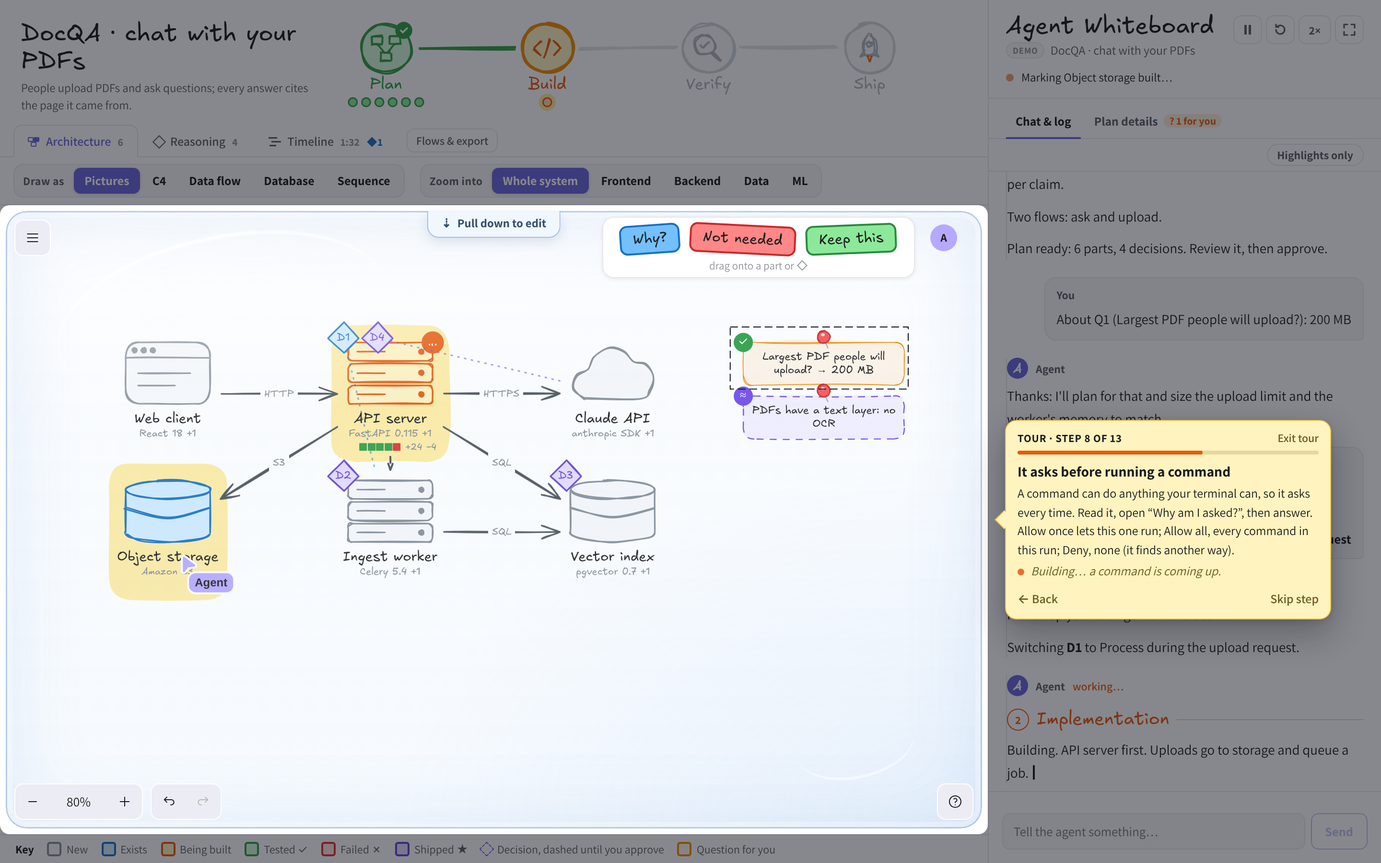
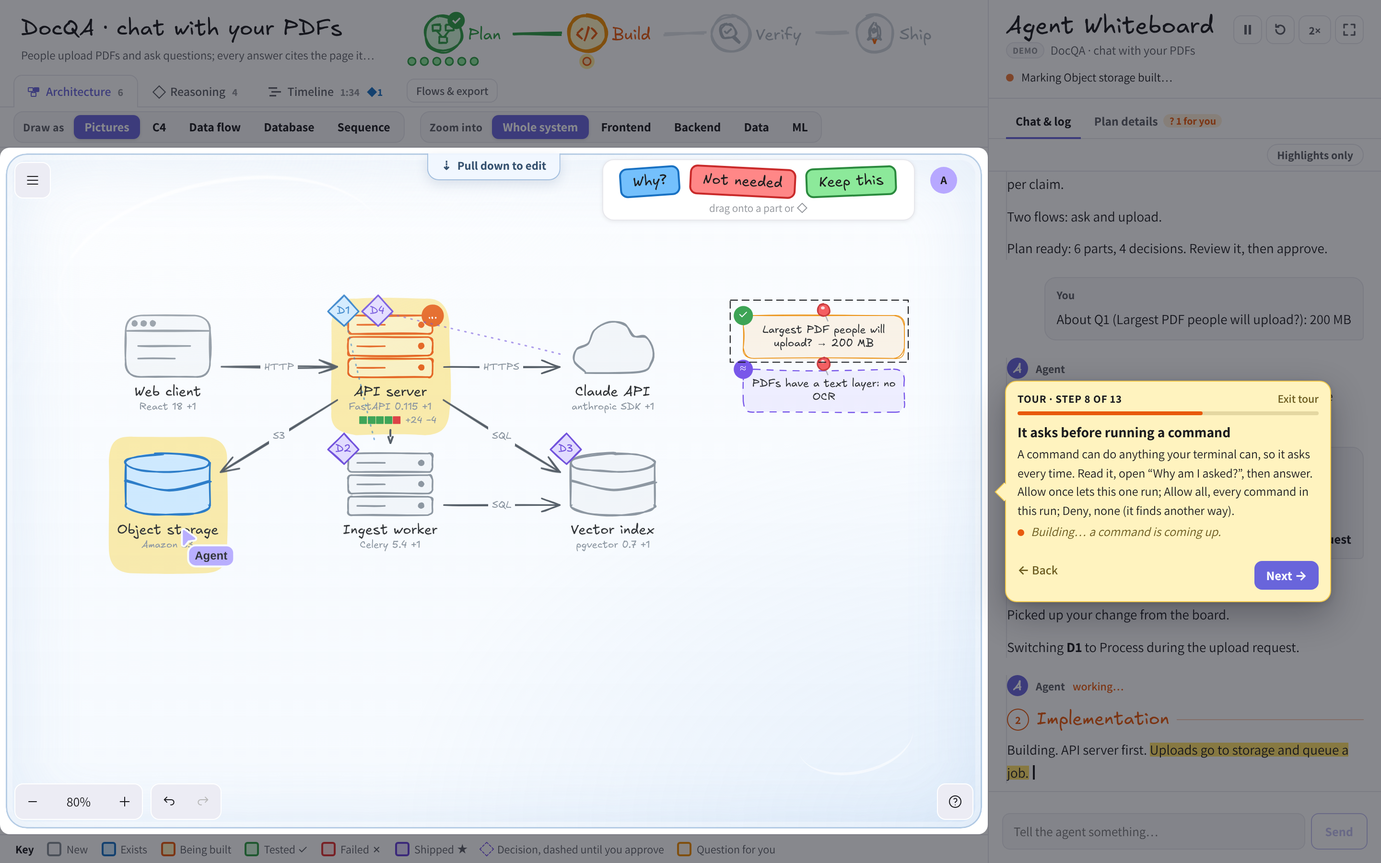
An intro pop-up over the demo, and Next on every tour step
A first visit, with an API key or without, starts the demo straight away
and pops up an intro in the middle of the screen over it (like the user's
Equalizer app): Show me around, or Skip the tour (Start my own task with a
key). The small "New here? Take the tour" card in the panel's corner is
gone, and the intro outlines nothing (the numbered rings round the panel,
board and road read out of order once the panel moved right).

Every step now has Next, which does the step for you if you haven't (it
was "Skip step"), and waits while the demo is still getting there. The
demo plays at 1× under the intro and 2× from the plan step.

Docs and screenshots updated; tour-check passes, light and dark.

Claude-Session: https://claude.ai/code/session_01CnzFEP1V3N7s4aLoNxWexn

diff --git a/src/App.jsx b/src/App.jsx
@@ -1340,8 +1340,9 @@ export default function App() {
       // Excalidraw measures its container after mount, so fit once it has real dimensions.
       timers.push(setTimeout(() => board.fit(), 150));
       // With an API key, wait for a task; otherwise play the scripted demo, as the tour on a first visit.
-      if (status.live) document.getElementById("ask")?.focus();
-      else if (tourOffer) setAutoTour(true);
+      // A first visit, key or not: the demo starts and the intro pops up over it (the tour).
+      if (tourOffer) setAutoTour(true);
+      else if (status.live) document.getElementById("ask")?.focus();
       else timers.push(setTimeout(() => s.startDemo({ fresh: true }), 700));
     });
     return () => {
@@ -1866,7 +1867,7 @@ export default function App() {
     setSpeed(v);
     if (s) s.player.speed = v;
   };
-  // Start from an empty board: the first step shows the three areas, the second starts the demo.
+  // Start from an empty board: the intro starts the demo behind it, the next step speeds it up.
   const takeTour = async () => {
     if (!s) return;
     markTour("taken");
@@ -1934,7 +1935,7 @@ export default function App() {
     // Leaving the step a checkpoint waits for (done, skipped, or the tour's over) lets the demo go on.
     if (s.held && !holds(tour, s.held, tourCtx)) s.release();
   });
-  // A step's action, the first time it's reached: the plan step starts the demo at 2×.
+  // A step's action, the first time it's reached: the intro starts the demo, the plan step plays it at 2×.
   const prevTour = useRef(null);
   useEffect(() => {
     const prev = prevTour.current;
@@ -1942,8 +1943,9 @@ export default function App() {
     if (!isFresh(prev, tour)) return;
     if (stepOf(tour).enter === "demo") {
       runDemo();
-      setSpeedTo(2);
+      setSpeedTo(1);
     }
+    if (stepOf(tour).enter === "fast") setSpeedTo(2);
     if (stepOf(tour).clearSelection) s?.board.api.updateScene({ appState: { selectedElementIds: {} } });
   }, [tour]);
   // Where the tour's first circle on the board is, on screen, and the rest of the drawing round
@@ -2023,6 +2025,8 @@ export default function App() {
             total={tourLength}
             wait={tourWaiting(tourStep, tourCtx)}
             manual={tour.manual}
+            live={!!agent?.live}
+            onOwnTask={() => leaveTour("task")}
             onBack={() => setTour(tourBack(tour, tourCtx))}
             onNext={() => setTour(tourNext(tour, tourCtx))}
             onSkip={skipTour}
@@ -2093,24 +2097,7 @@ export default function App() {
               <span className="caption">{status}</span>
             </div>
           )}
-          {/* Not before the dev server says whether there's a key: without one the tour starts by itself. */}
-          {tour || !agent || autoTour ? null : tourOffer && s ? (
-            <div className="coach tour-offer" role="region" aria-label="Take the tour">
-              <div className="coach-top">
-                <span className="coach-label">New here?</span>
-              </div>
-              <b className="coach-title">Take the tour: a whole run in a few minutes</b>
-              <p>The demo plays as a lesson. It stops at each step until you've tried it: pick an option, answer a question, allow a command, check its work. No API key needed.</p>
-              <div className="tour-actions">
-                <button className="linkish" onClick={() => markTour("declined")}>
-                  No thanks
-                </button>
-                <button className="primary" onClick={takeTour}>
-                  Take the tour
-                </button>
-              </div>
-            </div>
-          ) : (
+          {tour || !agent || autoTour ? null : (
             tips && coach && <Coach c={coach} onHide={() => showTipsPref(false)} onTour={takeTour} />
           )}
         </header>

diff --git a/src/Tour.jsx b/src/Tour.jsx
@@ -11,9 +11,31 @@ const marked = (s, proposed) =>
     ? s.split("◇").flatMap((part, i) => (i ? [<span key={i} className={`dmark${proposed ? " proposed" : ""}`} role="img" aria-label="decision">D</span>, part] : [part]))
     : s;
 
-// The step's card: the same yellow note as the coach, with a step count and a way out.
-// A step that waits for the run (it's still planning, say) says so instead of offering Next.
-export function TourCard({ step, proposed, n, total, wait, manual, onBack, onNext, onSkip, onExit, finish }) {
+// The step's card: the same yellow note as the coach, with a step count and a way out. Next is
+// always there: it does the step for you if you haven't (onSkip), so nobody has to work out what
+// to click. A step that waits for the run (it's still planning, say) says so, and Next waits too.
+// The first step is the intro, a pop-up over the demo as it starts: Show me around, or skip it
+// (with an API key, straight to your own task).
+export function TourCard({ step, proposed, n, total, wait, manual, live, onBack, onNext, onSkip, onExit, onOwnTask, finish }) {
+  if (step.intro)
+    return (
+      <div className="coach tour intro" role="dialog" aria-labelledby="tour-intro-title">
+        <span className="intro-brand">Agent Whiteboard</span>
+        <h2 id="tour-intro-title" className="intro-title">
+          {step.title}
+        </h2>
+        <p>{marked(step.text, proposed)}</p>
+        <div className="tour-actions">
+          <button className="linkish" onClick={live ? onOwnTask : onExit}>
+            {live ? "Start my own task" : "Skip the tour"}
+          </button>
+          <button className="primary" onClick={onNext} autoFocus>
+            Show me around →
+          </button>
+        </div>
+      </div>
+    );
+  const acts = !step.next && !manual;
   return (
     <div className="coach tour" role="region" aria-label="Tour">
       <div className="coach-top">
@@ -40,13 +62,9 @@ export function TourCard({ step, proposed, n, total, wait, manual, onBack, onNex
         </button>
         {finish ? (
           <span className="tour-finish">{finish}</span>
-        ) : step.next || manual ? (
-          <button className="primary" onClick={onNext}>
-            Next →
-          </button>
         ) : (
-          <button className="linkish" onClick={onSkip} title="Do it for me and go on">
-            Skip step
+          <button className="primary" onClick={acts ? onSkip : onNext} disabled={!!wait} title={acts ? "Go on (it does the step for you if you haven't)" : undefined}>
+            Next →
           </button>
         )}
       </div>

diff --git a/src/engine/tour.js b/src/engine/tour.js
@@ -35,21 +35,19 @@ export const BOARD = '[data-tour="board"]';
 export const TOUR = [
   {
     id: "welcome",
-    title: "Welcome! This is a run, start to finish",
-    text: "A coding agent gets a task, plans it, builds it and tests it. Here it's a scripted demo: no API key, and it never touches your files. Three areas: (1) this panel, where it talks and you answer; (2) the board, its plan as a drawing; (3) the phase road: Plan → Build → Verify → Ship.",
+    // The intro: a pop-up in the middle of the screen, over the demo as it starts playing.
+    intro: true,
+    title: "Watch a coding agent plan, build and test",
+    text: "It draws its plan on the board as it works, and you steer it from the drawing. This is a demo run: no API key, and nothing on your machine changes.",
     next: true,
-    place: "center", // the three areas are the whole screen: the card sits in the middle, a ring round each
-    dom: () => [
-      { sel: '[data-tour="panel"]', label: "1 Panel" },
-      { sel: '[data-tour="board"]', label: "2 Board" },
-      { sel: '[data-tour="road"]', label: "3 Phase road" },
-    ],
+    enter: "demo",
+    place: "center", // nothing outlined: the next steps point at things one at a time
   },
   {
     id: "plans",
     title: "It plans first",
     text: "Watch the parts appear. Each picture is a part of the system: a browser window is the web client, a rack a server, a cylinder a database. The color says its state: the key under the board has them all. Grey means new: nothing is built yet.",
-    enter: "demo",
+    enter: "fast",
     wait: (c) => (c.gate ? null : "Playing at 2×. The plan stops by itself when it's ready."),
     done: (c) => c.gate || c.stage === "building",
     dom: () => [{ sel: '[data-tour="key"]', label: "What the colors mean" }],

diff --git a/src/styles.css b/src/styles.css
@@ -2820,13 +2820,43 @@ button:focus-visible {
   justify-content: flex-end;
   gap: 6px;
 }
-.app .coach.tour .linkish,
-.app .coach.tour-offer .linkish {
+.app .coach.tour .linkish {
   color: #6b5a1e;
 }
-.app[data-theme="dark"] .coach.tour .linkish,
-.app[data-theme="dark"] .coach.tour-offer .linkish {
+.app[data-theme="dark"] .coach.tour .linkish {
   color: var(--soft);
+}
+/* The intro (and the finish): in the middle of the screen, bigger, over the demo playing behind. */
+.tour-pop.at-center {
+  width: 460px;
+}
+.app .coach.tour.intro {
+  padding: 22px 24px 18px;
+}
+.intro-brand {
+  font-size: 11.5px;
+  font-weight: 800;
+  letter-spacing: 0.12em;
+  text-transform: uppercase;
+  color: #8a6d1c;
+}
+.app[data-theme="dark"] .intro-brand {
+  color: var(--soft);
+}
+.intro-title {
+  margin: 6px 0 8px;
+  font: 400 27px/1.2 var(--hand);
+  color: var(--ink);
+}
+.app .coach.tour.intro p {
+  font-size: 14px;
+}
+.app .coach.tour.intro .tour-actions {
+  margin-top: 16px;
+}
+.app .coach.tour.intro .tour-actions button.primary {
+  padding: 8px 16px;
+  font-size: 14px;
 }
 /* The spotlight: the screen dims round what the step is about (cut out of an SVG mask), with a
    ring round each thing to click, and the card pops out beside it. Only the card takes clicks:

diff --git a/test/tour.test.js b/test/tour.test.js
@@ -27,10 +27,12 @@ test("a whole tour: each step waits for its action, then moves on by itself", ()
   let c = { ...base };
   let t = startTour(c);
   assert.equal(at(t), "welcome");
+  assert.ok(stepOf(t).intro, "the intro pop-up");
+  assert.equal(stepOf(t).enter, "demo", "the demo starts behind it");
   assert.equal(advance(t, c), t, "Next-only steps wait for Next");
   t = next(t, c);
   assert.equal(at(t), "plans");
-  assert.equal(stepOf(t).enter, "demo");
+  assert.equal(stepOf(t).enter, "fast");
 
   c = { ...c, started: true, stage: "planning", phase: "planning", firstDecision: "d1", firstQuestion: "q1" };
   assert.equal(advance(t, c), t, "still planning");
@@ -162,8 +164,8 @@ test("what stays lit, and where the card goes", () => {
     while (at(t) !== id) t = next(t, c);
     return targets(t, c);
   };
-  assert.equal(go("welcome", base).place, "center", "the three areas are the whole screen");
-  assert.equal(go("welcome", base).dom.length, 3);
+  assert.equal(go("welcome", base).place, "center", "the intro: a pop-up in the middle");
+  assert.equal(go("welcome", base).dom.length, 0, "nothing outlined behind it");
   assert.equal(go("finish", base).place, "center", "nothing to point at");
   assert.deepEqual(go("finish", base).spot, []);
 

diff --git a/HANDOFF.md b/HANDOFF.md
@@ -45,7 +45,7 @@ Every run is recorded so it can be replayed, reopened, and read as a decision lo
 - **Models (README):** three settings, `AGENT_URL` (any Anthropic-format endpoint; left out for Anthropic's API), `AGENT_KEY` (left out for a local server) and `AGENT_MODEL`. `agentEnv()` in `server/runs.js` writes them into the variables the Claude Agent SDK reads and is passed as the query's `env`: for a custom URL, `ANTHROPIC_BASE_URL`, `ANTHROPIC_AUTH_TOKEN` (the key, or `none`), an empty `ANTHROPIC_API_KEY` (so the SDK doesn't sign in to Anthropic instead), and the model for every `ANTHROPIC_DEFAULT_*_MODEL` tier. Claude Code's own variables (`ANTHROPIC_*`, `CLAUDE_CODE_USE_BEDROCK`/`VERTEX`/`FOUNDRY`) still work. `provider()` names the route in the top bar. The agent loop is the SDK, so non-Claude models are unofficial. Only Anthropic's API has been run; an Ollama test in a cloud session was blocked (running the downloaded binary wasn't permitted), so Ollama, LiteLLM, OpenRouter and the cloud providers follow their official setup pages, **untested**. **Codex is supported** (`AGENT_ENGINE=codex`, `server/codex-run.js`, below). opencode and pi aren't; the board's MCP server over HTTP (`server/board-mcp.js`) is what they'd connect to, plus a run loop each, like Codex's.
 - **First-time help (4.11):** someone found the UI too hard to follow, so it now walks a first-year CS student through a run without removing anything: a coach card (step 1–4 and what to do now), sticky-note tips with hand-drawn arrows on the board at the first plan gate, an **Edit the plan** toolbar with words (Excalidraw's own toolbar behind **Drawing tools**), a click-to-explain card for whatever's selected, a color key, plain-word tabs/counts/receipts/prompts, and one **View** menu for Diagram, Show only and Export. Designed from three mockups (A step by step, B today's layout plus a coach, C click anything; a private Design canvas the user has): this is B plus C's explain card. Verified on the demo (every step, Rename, Use this and Remove queuing edits, dark theme), the start screen and a permission prompt with the agent status stubbed live and a recording fed through the agent path; not on a live run yet.
 - **Stickers, red pen, tape and pins (4.12):** three stickers (Why?, Not needed, Keep this) in a tray at the top of the board (they used to be in Excalidraw's Library, behind a Stickers button: the user doesn't want things hidden behind buttons); a sticker dropped on a part or a ◇ becomes a `sticker` edit (area ▢ / ◇, Keep this ✐), sent with Submit, answered by the agent, then cleared (Keep this stays as a constraint, listed as `kept` in board_state). At the end of a run the review is marked on the board in red pen: a ring round the part owning a file a false claim names (a margin note when no part owns it), a ✗ over a failed check. Your notes get washi tape, the agent's questions and assumptions a push pin (Pictures only). Verified on the demo in headless Chromium, light and dark (real drags from the Library onto a part and a diamond, Approve with changes, the clear-up after the turn, a real click on a pen mark, C4 without tape or pins); not on a live run yet: check the agent answers `sticker` edits as instructions.js says.
-- **The tour (4.13):** **Take the tour** runs the scripted demo as a 13-step lesson that waits for you at each step (click a ◇, Use this or a sticker, answer the question, approve with changes, hover a log line, a scripted command prompt, the Why tab after D2 fails, the false README.md claim, the Timeline, Draw as and Zoom into, finish). Step logic is pure (`src/engine/tour.js`, unit-tested in `test/tour.test.js`); `scripts/tour-check.cjs` takes the whole tour in headless Chromium with real clicks, light and dark, plus Back / Skip step / Exit and a check that the plain demo is unchanged. Live mode's start screen checked with the agent status stubbed live. Screenshots in `screenshots/tour/`.
+- **The tour (4.13):** **Take the tour** runs the scripted demo as a 13-step lesson, opened by an intro pop-up over the demo as it starts; every step has **Next**, which does the step for you if you haven't (click a ◇, Use this or a sticker, answer the question, approve with changes, hover a log line, a scripted command prompt, the Why tab after D2 fails, the false README.md claim, the Timeline, Draw as and Zoom into, finish). Step logic is pure (`src/engine/tour.js`, unit-tested in `test/tour.test.js`); `scripts/tour-check.cjs` takes the whole tour in headless Chromium with real clicks, light and dark, plus Back / Next / Exit and a check that the plain demo is unchanged. Live mode's start screen checked with the agent status stubbed live. Screenshots in `screenshots/tour/`.
 - **Tutorial:** `docs/TUTORIAL.md`, a walkthrough for a first-year CS student (setup, the tour, a first run, steering, the command prompt, checking the result, saved runs and the decision log, your own task), linked at the top of the README. Its screenshots are `screenshots/tour/`, `screenshots/stickers/` and `screenshots/tutorial/` (the start screen, a reopened run's Timeline). Keep it in step with the UI: when a button's name or a step changes, update the tutorial in the same commit.
 - **Zoom into, Draw as, the glass, a shorter demo (4.14):** the user wanted layers they can open (not just greyed-out boxes), the notation picker visible, the board behind glass until you choose to edit, and less prose in the panel. A bar above the board: **Draw as** (the old Diagram dropdown) and **Zoom into** (Whole system or a layer: the layer's components opened on the board's own map to show their parts, other layers closed as grey boxes; new `part` op). The board sits behind glass; **Pull down to edit** shows Edit the plan, Submit puts it back. The demo's prose is one line per step (same ops). Verified on the demo in headless Chromium (every layer, a drag blocked behind glass and a click still explaining, the drag working with the glass down, the tour's new step); not on a live run yet: check the agent sends `part` ops.
 - **Headers:** the board's tabs are **Architecture**, **Reasoning** (was "Why · the reasons") and **Timeline**, with their counts and no subtitles (the tooltips explain). With no plan yet the header says "No plan yet" and "The agent draws its plan here." (was "Waiting for the agent…"). Code still calls the Reasoning view `why` (`whyApi`, `data-tour="why-tab"`).
@@ -252,12 +252,12 @@ Three board-drawn touches, all following the `showTips` pattern (board ids, reme
 
 The scripted demo as a lesson: it stops at each step until the person has done it. Opt-in; the plain demo and everything else behave as before.
 
-- **Steps** (`TOUR` in `src/engine/tour.js`): welcome (three rings: panel, board, phase road; Next) → plans (starts the demo at 2×; rings the key; done at the gate) → click a ◇ (board note on the lowest decision; done when a `decision:` lid is selected) → steer (rings **Use this** on the explain card and **Stickers**; done when the queued edits grow) → answer (circles the open question, rings Plan details; done when answered; clears the selection so the decision's card doesn't cover the note) → approve (rings Approve; done at `stage === "building"`) → build (note on the orange part, rings Chat & log; done when a Chat & log sentence is hovered; checkpoint `build`) → permission (rings the prompt; done when a prompt is answered) → why (after a decision changes with `cause.who === "test"`, rings the Why tab; done on that view; checkpoint `verify`) → untrue (once the review shows, rings its ✗ row; done when a review row or pen mark is opened) → timeline → views (rings the Architecture tab, then the bar above the board, with the board lit; waits for Next) → finish (Start your own task in live mode, See saved runs, Finish).
+- **Steps** (`TOUR` in `src/engine/tour.js`): welcome (the intro: `intro: true`, a centered pop-up with nothing outlined, starts the demo at 1×; Show me around, or Skip the tour / Start my own task with a key) → plans (2×; rings the key; done at the gate) → click a ◇ (board note on the lowest decision; done when a `decision:` lid is selected) → steer (rings **Use this** on the explain card and **Stickers**; done when the queued edits grow) → answer (circles the open question, rings Plan details; done when answered; clears the selection so the decision's card doesn't cover the note) → approve (rings Approve; done at `stage === "building"`) → build (note on the orange part, rings Chat & log; done when a Chat & log sentence is hovered; checkpoint `build`) → permission (rings the prompt; done when a prompt is answered) → why (after a decision changes with `cause.who === "test"`, rings the Why tab; done on that view; checkpoint `verify`) → untrue (once the review shows, rings its ✗ row; done when a review row or pen mark is opened) → timeline → views (rings the Architecture tab, then the bar above the board, with the board lit; waits for Next) → finish (Start your own task in live mode, See saved runs, Finish).
 - **Pure logic.** App builds a context every render (the fields are listed at the top of tour.js); `advance(tour, ctx)` moves through every step whose `done(ctx, start)` holds (`start` is the context when the step began, so "did something new" is a comparison). Steps also count as done once the run has moved past them (approving before answering skips ahead), so it never waits for what can't happen. **Back** sets `manual`: the step waits for **Next**, or it would skip itself straight away. **Skip step** does the step for you (`skip`: pick the first option, answer with the first option, approve, allow) and moves on. A step's `enter` (start the demo) runs once (`isFresh`, from `max`).
 - **Pausing the demo.** Two script ops that only act while `Session.tour` is set: `<board op="tour" at="build|verify"/>` asks App's `onHold(at)` (→ `holds(tour, at, ctx)`: the current step's `release` is `at` and it isn't done) and if so pauses the player and sets `held`; App releases it (`Session.release()`) as soon as `holds` stops being true (done, skipped, exited). `<board op="ask" cmd="pytest -q" why="…"/>` sets a demo `permission` and pauses; `answerPermission` in demo mode records it (a `permission` and a `user` event for the Timeline), remembers a deny (that `run` doesn't happen, and it says so) or allow-all, and resumes. Play doesn't skip a pending prompt.
 - **Pointing.** DOM targets carry `data-tour="…"` (panel, board, road, key, stickers, use-this, plan-tab, log-tab, approve, permit, why-tab, timeline-tab, untrue). Board targets reuse `Board.showTips` (the coach's own gate tips are off while the tour runs).
 - **Spotlight** (`TourSpotlight` in `src/Tour.jsx`, placement in `src/engine/spotlight.js`). A fixed layer over the app: an SVG mask dims the screen with a cut-out per DOM target (ringed, with its tag) and per `spot` area (lit, no ring), and the step's card (`TourCard`, `.coach.tour`, no longer in the panel's header) pops out beside the first target. `targets()` returns `spot` and `place`: a step's own `spot(ctx)` selectors (the board while it plans, the decision's card, the transcript, the gate, the board for the red pen), plus the board whenever something is circled on it or the step waits with nothing to click; `place: "center"` (welcome; also anything with nothing to show) centers the card, rings drawn but nothing cut out. `placeCard()` tries right, below, left, above: the first side that fits the window (12 px margin) and covers nothing wins, else the one covering least (other targets weigh 1000, the lit board 10, other areas 1); the caret sits level with the target. On the board the anchor is the tour's circle itself (`tourNote()`, which also returns the drawing round it), and the card avoids that drawing instead of the whole board, so it sits right by what it's about. One target per step: a step with a ring doesn't circle anything on the board too, and while the tour runs the panel's "Steer from the board" hint and the board's "Click any part" hint are hidden. Re-measured every 150 ms and on resize/scroll; holes fade in and out by key, the card glides (`transform`, 0.45 s) and none of it moves under `prefers-reduced-motion`. Everything but the card is `pointer-events: none`, so the page works as usual under the dim and Exit tour is always on screen.
-- **Entry points:** Take the tour on both start screens, **Tour** beside the coach's Hide tips, a flag button beside **?** when tips are hidden, and on a first visit (`wb-tour` unset in localStorage) it starts by itself in demo mode, or is offered as a card when there's an API key (taken / declined / done). ↺ (start over) exits the tour.
+- **Entry points:** Take the tour on both start screens, **Tour** beside the coach's Hide tips, a flag button beside **?** when tips are hidden, and on a first visit (`wb-tour` unset in localStorage) it starts by itself, key or not: the demo plays and the intro pops up over it (taken / done). There's no corner offer card any more: the user wants the intro unmissable, like their Equalizer app's. ↺ (start over) exits the tour.
 - Gotcha: the review card lives at the end of Chat & log, and the run can finish while Plan details is open (opening Why switches the panel to Plan details), so the "untrue" step rings the Chat & log tab first when `ctx.tab` isn't `activity`.
 - Gotcha: the hover step counts only Chat & log sentence hovers (`lineHovers`); counting `Session.setHover` let the mouse resting where Approve was (over a Plan card) finish it.
 
@@ -327,7 +327,7 @@ Element id conventions: nodes `node-<id>` (+ `:label`, `:libs`, `:badge`…), ed
   - `drag x1 y1 x2 y2` is a real mouse drag (how the drag-to-choose check ran).
   - The README GIF (`screenshots/demo.gif`) was made from `Page.startScreencast` frames (with a fake cursor div, since headless frames have none) of a scripted demo run, time-warped per segment and encoded with ffmpeg (`palettegen stats_mode=diff`, `paletteuse diff_mode=rectangle`, 1000 px, 10 fps): 40 s, 1.8 MB. Refreshed for the first-time help UI (coach, tips, explain card, Use this on D3 → Pinecone, review, Timeline): Playwright screenshots in a loop (~10 fps) with a fake cursor div, each frame tagged with a time warp (3× planning, 4× building, 1× for the clicks), an ffmpeg concat list with per-frame durations, same palette filters: 35 s, 1.7 MB.
   - Timeline: click a mark by mapping its element to client coords: `(e.x + e.width / 2 + st.scrollX) * st.zoom.value + st.offsetLeft` (same for y), with `st = window.__wb.board.timelineApi.getAppState()`. A live run can be simulated without a key by `await s.reset(); s.mode = "agent"` and feeding a recording's events to `s.onAgentEvent` on a timer. Narrow window: `Emulation.setDeviceMetricsOverride` over the same CDP socket.
-- **Tour:** with `npm run dev` running, `NODE_PATH=$(npm root -g) node scripts/tour-check.cjs <out-dir> [light|dark]` takes the tour from a first visit (where it starts by itself) to Finish with real clicks and hovers, screenshots each step, then Back / Skip step / Exit from the coach's Tour link, and a plain demo run (no offer, no prompt, no pause). About 4 minutes. It prints `ALL OK` or the failing step, with `failed.png`.
+- **Tour:** with `npm run dev` running, `NODE_PATH=$(npm root -g) node scripts/tour-check.cjs <out-dir> [light|dark]` takes the tour from a first visit (where it starts by itself) to Finish with real clicks and hovers, screenshots each step, then Back / Next / Exit from the coach's Tour link, and a plain demo run (no tour, no prompt, no pause). About 4 minutes. It prints `ALL OK` or the failing step, with `failed.png`.
 - **Live agent check** (needs `ANTHROPIC_API_KEY`): run a sandbox task, approve, allow only test/read/edit commands inside the sandbox, confirm diamonds tick from the output and the `.decisions.md` reads right. Each run costs about $0.20–0.40 at effort low.
 
 ---

diff --git a/docs/TUTORIAL.md b/docs/TUTORIAL.md
@@ -36,18 +36,20 @@ cp fixtures/recordings/* recordings/
 
 ## 2. Take the tour
 
-The first time you open the app, the tour starts by itself. To take it again later, press **Tour** in the yellow tips card (or **Take the tour** on the start screen).
+The first time you open the app, the demo starts and a short intro pops up over it: press **Show me around**. To take it again later, press **Tour** in the yellow tips card (or **Take the tour** on the start screen).
 
-The tour plays the demo as a lesson. The screen dims except for the part each step is about, and a yellow card pops out beside it to say what to do and why; an orange ring or circle marks the one thing to click. Everything still works under the dim. The demo **waits for you** at each step, so take your time. If you get stuck, **Skip step** does it for you; **Back** shows the last step again; **Exit tour** leaves it (the demo keeps going as normal).
+![The intro: a pop-up over the demo as it starts playing](../screenshots/tour/01-welcome.png)
+
+The tour plays the demo as a lesson. The screen dims except for the part each step is about, and a yellow card pops out beside it to say what to look at; an orange ring or circle marks it. Everything still works under the dim, so try it yourself, or press **Next** and it does the step for you. **Back** shows the last step again; **Exit tour** leaves it (the demo keeps going as normal).
 
 The rest of this guide covers the same run in more detail. Do the tour first, then read on, or follow along here instead.
 
 ## 3. The three areas
 
-![The tour's first step rings the three areas: the panel, the board, and the phase road](../screenshots/tour/01-welcome.png)
+![The board on the left, the panel on the right, and the phase road along the top](../screenshots/first-time-help/2-plan-gate-tips-on-the-board.png)
 
-1. **The panel (right).** The agent talks here, and you answer. It has two tabs: **Chat & log** (what it said and did) and **Plan details** (the plan in words). The box at the bottom is for typing to it.
-2. **The board (left).** The plan as a drawing. Each picture is a part of the system; arrows show which part talks to which.
+1. **The board (left).** The plan as a drawing. Each picture is a part of the system; arrows show which part talks to which.
+2. **The panel (right).** The agent talks here, and you answer. It has two tabs: **Chat & log** (what it said and did) and **Plan details** (the plan in words). The box at the bottom is for typing to it.
 3. **The phase road (top).** Where the run is: **Plan → Build → Verify → Ship**, with a dot for each task.
 
 ### Legend

diff --git a/README.md b/README.md
@@ -10,7 +10,7 @@ The board is pictures, not prose. Components are hand-drawn pictograms (browser 
 
 ## Take the tour
 
-New here? The tour starts by itself on your first visit (without an API key; with one, it's offered). Take it again with **Take the tour** (on the start screen, as **Tour** beside the coach's Hide tips, or the flag button by **?**). The scripted demo plays as a lesson: no API key, nothing touches your files. It stops at each step until you've tried it, then carries on: click a ◇ decision, pick another option with **Use this** (or drag a sticker onto a part), answer its question, **Approve with changes**, hover a log line while it builds, answer a command prompt (**Allow once**, **Allow all** or **Deny**, and *Why am I asked?*), open **Why** when a check fails and the decision changes, find the claim that isn't true (the ✗ row in the review, or the red pen), and read the **Timeline**. Twelve steps: the screen dims round the part each one is about, and its card pops out beside it, with Back, Skip step (it does the step for you) and Exit tour. A first visit offers it once.
+New here? Open the app: the demo starts playing and a short intro pops up over it, with or without an API key (**Show me around** starts the tour). Take it again with **Take the tour** (on the start screen, as **Tour** beside the coach's Hide tips, or the flag button by **?**). The scripted demo plays as a lesson: no API key, nothing touches your files. Each step points at one thing you can try: click a ◇ decision, pick another option with **Use this** (or drag a sticker onto a part), answer its question, **Approve with changes**, hover a log line while it builds, answer a command prompt (**Allow once**, **Allow all** or **Deny**, and *Why am I asked?*), open **Reasoning** when a check fails and the decision changes, find the claim that isn't true (the ✗ row in the review, or the red pen), and read the **Timeline**. The screen dims round the part each step is about, and its card pops out beside it, with Back, **Next** (it does the step for you if you haven't) and Exit tour.
 
 ![The tour at step 4: the screen dims round the decision's card, an orange ring marks Use this, and the yellow tour card pops out beside it to say what to do and why](screenshots/tour/04-use-this.png)
 
